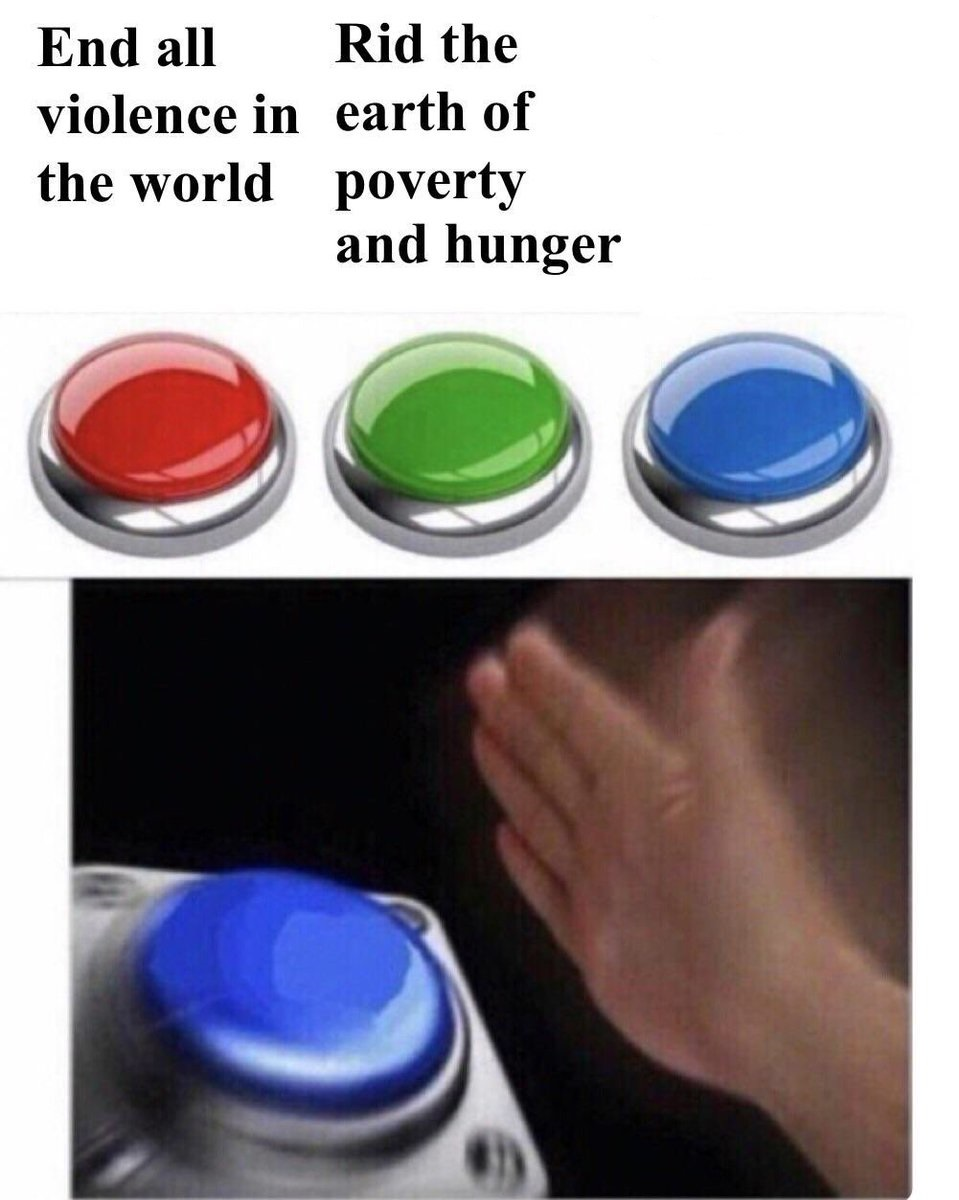
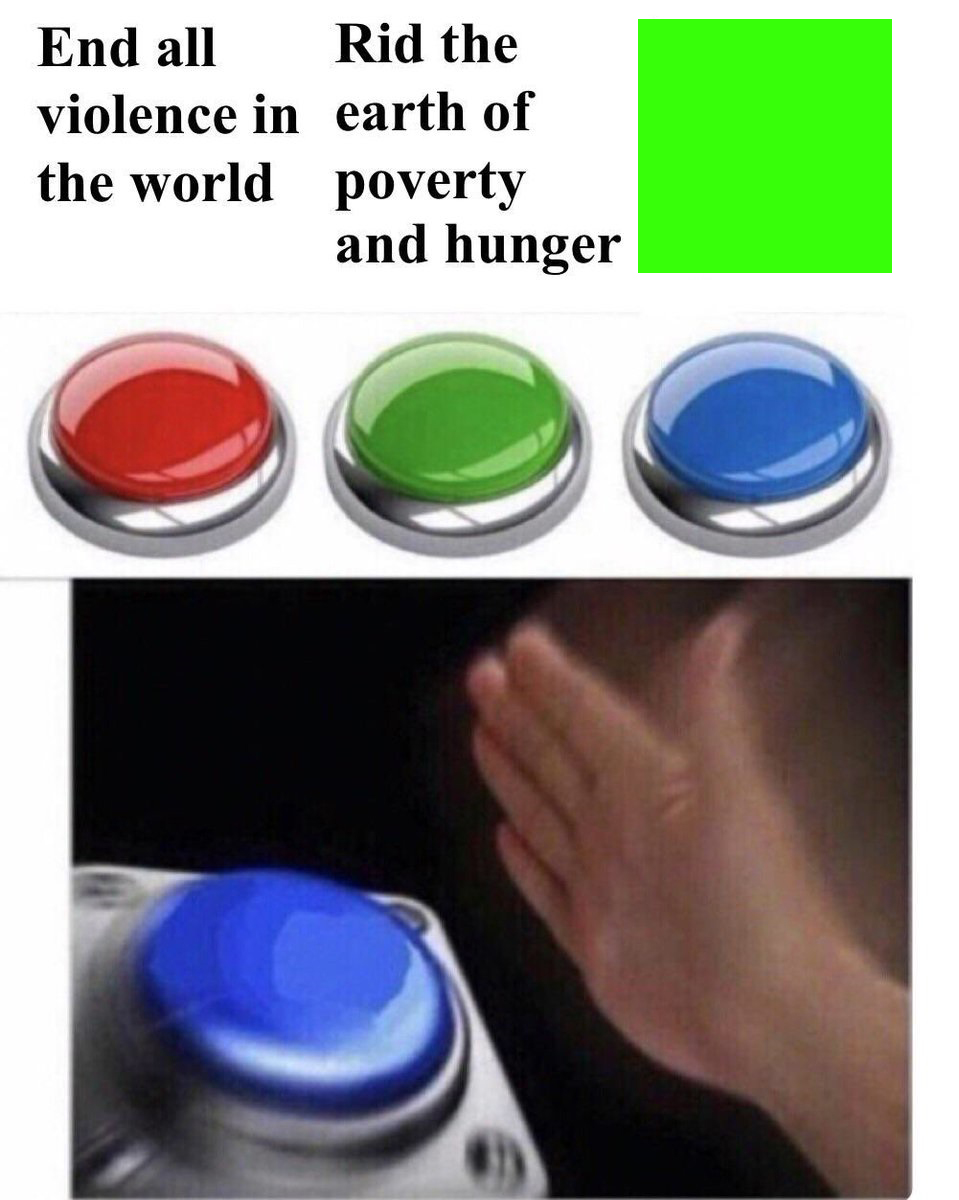
Making improvements

Changed region(s): [[0.6653, 0.0, 0.9374, 0.2467]]

diff --git a/shitpost-bot.py b/shitpost-bot.py
@@ -8,6 +8,8 @@ CONST_SOURCE_IMAGES_PATH = "./source_images"
 CONST_MEMES_PATH = "./memes"
 CONST_MEME_NUMBER = 10
 
+CONST_CHROMA_COLORS = [(55, 255, 9)]
+
 def getTemplates(path):
 	templates = []
 
@@ -19,16 +21,23 @@ def getTemplates(path):
 
 	return templates
 
-def getTemplateCoordinates(template, path):
-	templatecoordinates = (0, 0, 0, 0)
+def getTemplateCoordinates(template):
+	pixels = template.load()
 
-	with open(path + '/templates.json') as templates_json:
-		data = json.load(templates_json)
-		for template_data in data:
-			if path + "/" + template_data["filename"] == template.filename:
-				templatecoordinates = (template_data["left"], template_data["top"], template_data["right"], template_data["down"])
-				return templatecoordinates
+	left = 9999999
+	top = 9999999
+	right = 0
+	down = 0
 
+	for y in range(template.height):
+		for x in range(template.width):
+			if pixels[x, y] == (55, 255, 9):
+				left = x if (x < left) else left
+				top = y if (y < top) else top
+				right = x if (x > right) else right
+				down = y if (y > down) else down
+
+	return (left, top, right, down)
 
 def getSourceImages(path):
 	source_images = []
@@ -60,7 +69,10 @@ for i in range(0, CONST_MEME_NUMBER):
 	template = Image.open(random.choice(templates))
 	source_image = Image.open(random.choice(source_images))
 
-	templatecoordinates = getTemplateCoordinates(template, CONST_TEMPLATES_PATH)
+	print("SELECTED TEMPLATE: " + os.path.basename(template.filename))
+	print("SELECTED SOURCE IMAGE: " + os.path.basename(source_image.filename))
+
+	templatecoordinates = getTemplateCoordinates(template)
 
 	newsize = (templatecoordinates[2] - templatecoordinates[0], templatecoordinates[3] - templatecoordinates[1])
 
